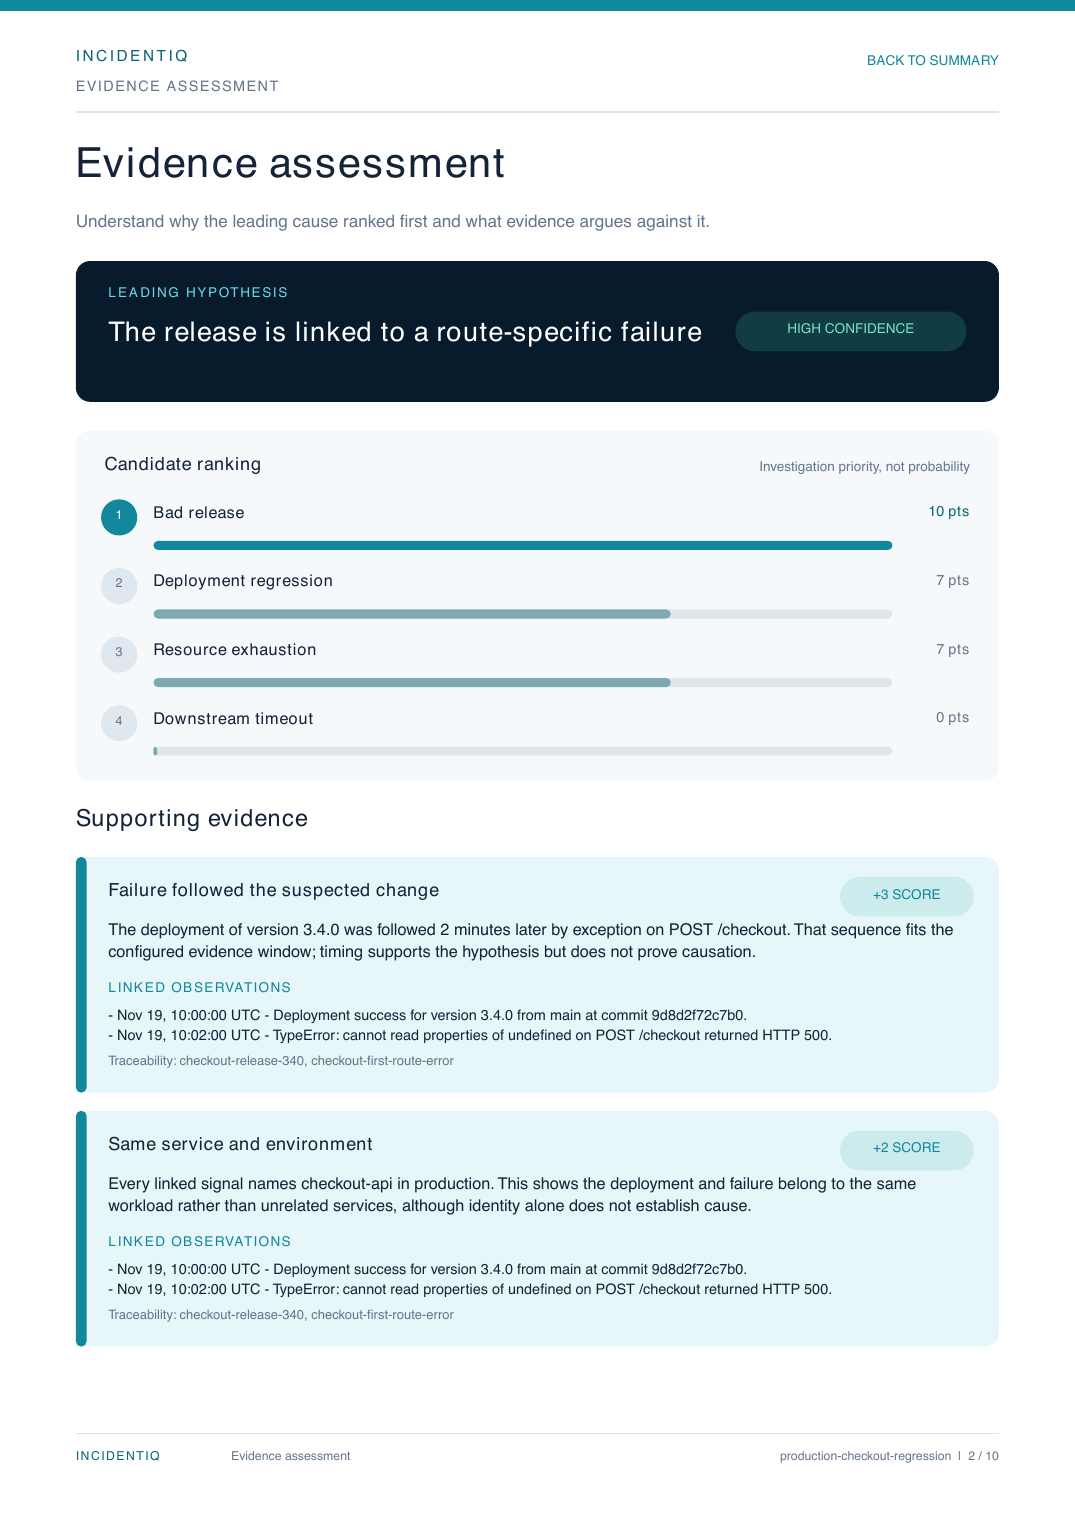
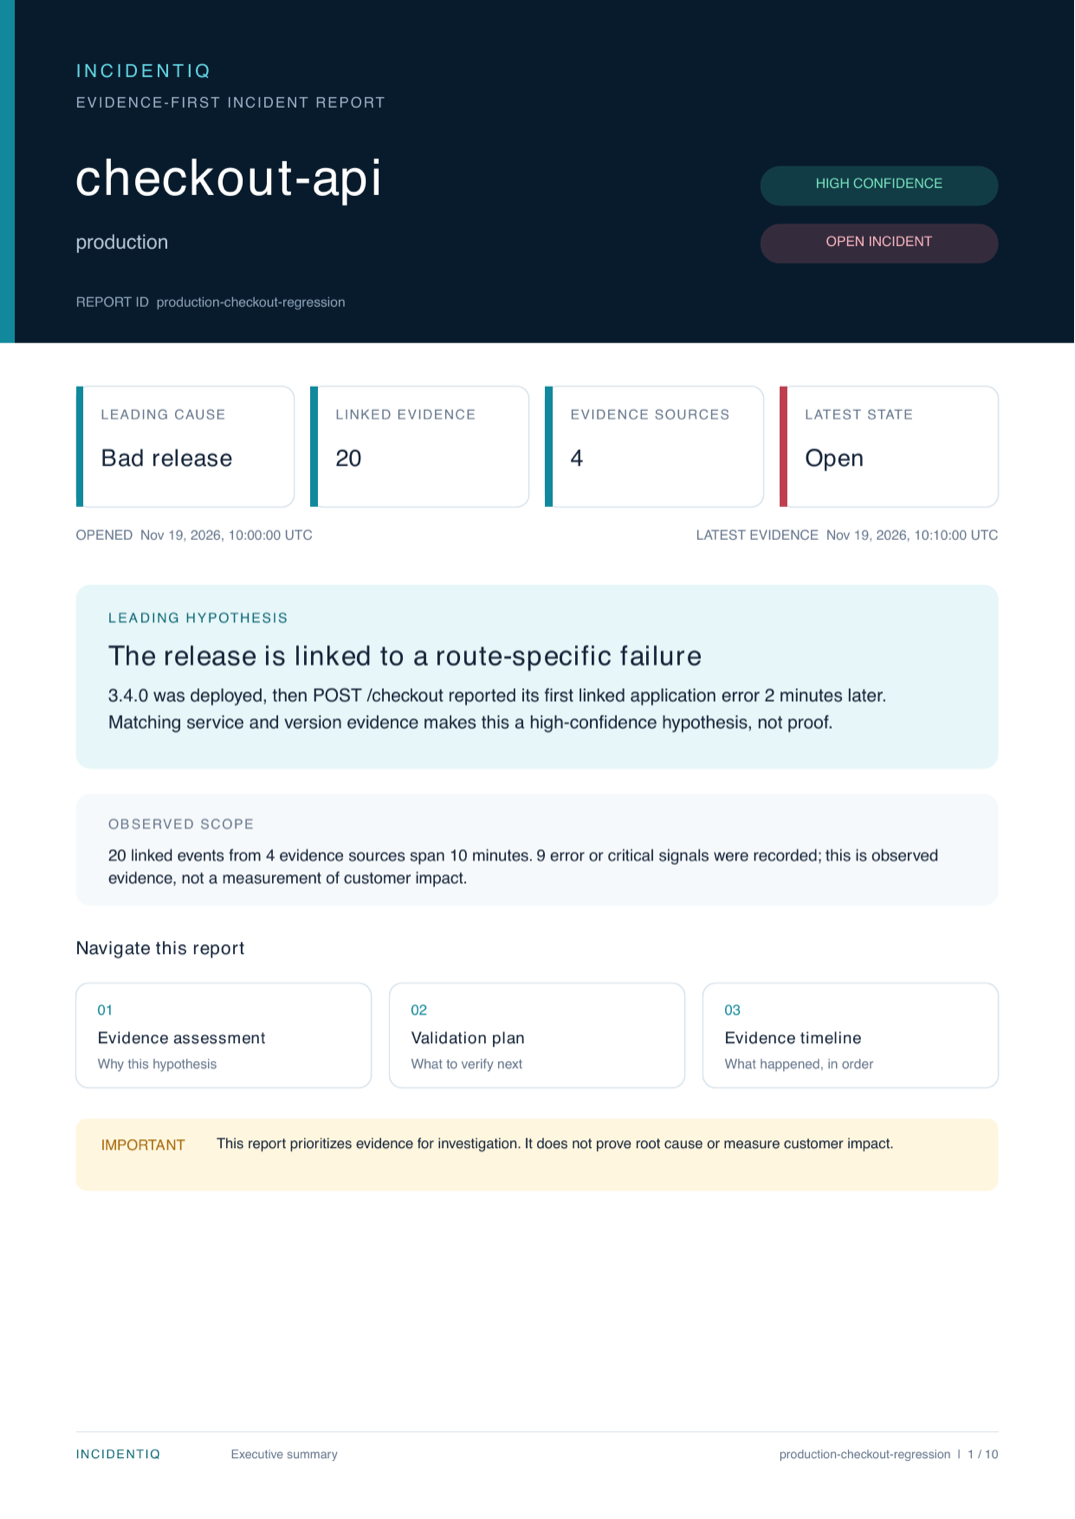
docs: finalize v0.7.1 guides and report preview

diff --git a/README.md b/README.md
@@ -17,7 +17,7 @@ When a production service breaks, the useful clues are usually scattered: an err
 
 ## How IncidentIQ helps
 
-IncidentIQ accepts those operational signals, stores them safely in PostgreSQL, removes configured secret fields, and lets you inspect a time-ordered evidence trail. Today you can send application events, GitHub deployment context, read-only Kubernetes workload-failure signals, and Prometheus alerts delivered by Alertmanager. The CLI investigates individual incidents, while the local dashboard shows coverage plus filtered incident evidence timelines.
+IncidentIQ accepts those operational signals, stores them safely in PostgreSQL, removes configured secret fields, and lets you inspect a time-ordered evidence trail. Today you can send application events, GitHub deployment context, read-only Kubernetes workload-failure signals, and Prometheus alerts delivered by Alertmanager. The CLI investigates individual incidents, while the dashboard shows operational coverage and provides filtered, evidence-backed incident investigations.
 
 ## Start locally
 
@@ -138,7 +138,7 @@ For a remote API, the producer needs the API's HTTPS URL and the `iiq_...` inges
 - A namespace-scoped, read-only Kubernetes collector with reconnecting Pod, Event, Deployment, and Job watches
 - Alertmanager webhook ingestion for Prometheus CPU, memory, latency, and error-rate alerts
 - Automatic incident creation for new error and critical signals, with nearby service evidence saved as one timeline
-- A separate local React dashboard with focused Overview and Investigations views, evidence-backed briefs, candidate rankings, contextual next checks, readable timelines, navigable PDF incident reports, and evidence-source activity
+- A separate React dashboard with focused Overview and Investigations views, evidence-backed briefs, candidate rankings, contextual next checks, readable timelines, navigable PDF incident reports, and evidence-source activity
 
 Not included yet: incident acknowledgement or resolution workflow, cluster-wide Kubernetes collection, or AI-generated explanations. See the roadmap for what comes next.
 
@@ -285,7 +285,7 @@ Loading the same fixture more than once does not duplicate its source events. Co
 | [Kubernetes workload collector](docs/integrations/kubernetes-collector.md) | Installing and testing the read-only namespace collector |
 | [Prometheus Alertmanager integration](docs/integrations/alertmanager.md) | Recording firing and resolved Prometheus alerts through Alertmanager webhooks |
 | [Automatic incidents](docs/automatic-incidents.md) | Seeing how live error and critical signals open and enrich a saved evidence timeline |
-| [Dashboard](docs/dashboard.md) | Running the local service, environment, and integration coverage view safely |
+| [Dashboard](docs/dashboard.md) | Running or deploying the authenticated coverage and incident-investigation interface |
 | [Event data guide](docs/event-data.md) | Understanding which fields are generated, configured, or supplied by an integration |
 
 ## Build and test the project

diff --git a/docs/integrations/kubernetes-collector.md b/docs/integrations/kubernetes-collector.md
@@ -37,13 +37,17 @@ ghcr.io/shreyanshi200/incidentiq-kubernetes-collector:sha-<commit-sha>
 If you use your own registry, build the collector from the repository root and push it to a registry your cluster can pull from:
 
 ```sh
+export INCIDENTIQ_COLLECTOR_IMAGE=your-registry/incidentiq-kubernetes-collector:sha-YOUR_COMMIT_SHA
+
 docker build \
   -f integrations/kubernetes-collector/Dockerfile \
-  -t your-registry/incidentiq-kubernetes-collector:0.4.2 \
+  -t "$INCIDENTIQ_COLLECTOR_IMAGE" \
   .
 
-docker push your-registry/incidentiq-kubernetes-collector:0.4.2
+docker push "$INCIDENTIQ_COLLECTOR_IMAGE"
 ```
+
+Replace `YOUR_COMMIT_SHA` with the commit you built so the deployed image is immutable and traceable.
 
 ## Deploy to one namespace
 
@@ -122,14 +126,14 @@ Copy the displayed `https://...trycloudflare.com` URL and keep both terminals ru
 Install [kind](https://kind.sigs.k8s.io/docs/user/quick-start) if needed, then run:
 
 ```sh
-kind create cluster --name incidentiq-v042 --wait 2m
+kind create cluster --name incidentiq-test --wait 2m
 
 docker build \
   -f integrations/kubernetes-collector/Dockerfile \
-  -t incidentiq-kubernetes-collector:v0.4.2-test \
+  -t incidentiq-kubernetes-collector:local-test \
   .
 
-kind load docker-image incidentiq-kubernetes-collector:v0.4.2-test --name incidentiq-v042
+kind load docker-image incidentiq-kubernetes-collector:local-test --name incidentiq-test
 ```
 
 ### 3. Deploy the collector
@@ -146,11 +150,11 @@ export INCIDENTIQ_API_URL=https://your-tunnel.trycloudflare.com
 kubectl create namespace payments
 kubectl -n payments create secret generic incidentiq --from-literal=api-key="$INCIDENTIQ_API_KEY"
 kubectl -n payments apply -f integrations/kubernetes-collector/deploy/collector.yaml
-kubectl -n payments set image deployment/incidentiq-kubernetes-collector collector=incidentiq-kubernetes-collector:v0.4.2-test
+kubectl -n payments set image deployment/incidentiq-kubernetes-collector collector=incidentiq-kubernetes-collector:local-test
 kubectl -n payments set env deployment/incidentiq-kubernetes-collector \
   INCIDENTIQ_API_URL="$INCIDENTIQ_API_URL" \
   INCIDENTIQ_ENVIRONMENT=local \
-  INCIDENTIQ_CLUSTER_NAME=incidentiq-v042
+  INCIDENTIQ_CLUSTER_NAME=incidentiq-test
 kubectl -n payments rollout status deployment/incidentiq-kubernetes-collector --timeout=2m
 ```
 
@@ -213,7 +217,7 @@ kubectl -n payments delete -f integrations/kubernetes-collector/deploy/test-work
 ```
 
 ```sh
-kind delete cluster --name incidentiq-v042
+kind delete cluster --name incidentiq-test
 ```
 
 ## Current limit

diff --git a/docs/dashboard.md b/docs/dashboard.md
@@ -8,7 +8,7 @@ The static dashboard files have no embedded API key or tenant data. The page sen
 
 The raw read key is not stored in browser storage. JavaScript cannot read the session cookie, a refresh can safely restore the dashboard, and signing out clears the cookie. Revoking the underlying read key also invalidates its sessions.
 
-Never paste an `ingest` key into the dashboard. An ingestion key can write events; a read key can only load the dashboard overview.
+Never paste an `ingest` key into the dashboard. An ingestion key can write events; a read key can only load its tenant's dashboard overview, investigations, incident details, and reports.
 
 The server's `INCIDENTIQ_SESSION_SECRET` is different from both API keys. It signs browser cookies, stays only on the API server, and is never pasted into the dashboard.
 
@@ -85,6 +85,6 @@ Build the static files from the same released repository version as the API:
 pnpm --filter @incidentiqhq/dashboard build
 ```
 
-The generated files are in `apps/dashboard/dist`. Serve those files from the same HTTPS hostname as the API and proxy `/v1` to the API container. Keeping both on one origin avoids CORS configuration and lets the dashboard use the protected overview endpoint safely.
+The generated files are in `apps/dashboard/dist`. Serve those files from the same HTTPS hostname as the API and proxy `/v1` to the API container. Keeping both on one origin avoids CORS configuration and lets the dashboard use its protected endpoints safely.
 
 Follow the [production API deployment guide](deployment/api-production.md#6-deploy-the-dashboard) for the exact upload, Nginx, read-key, verification, upgrade, and rollback steps.
